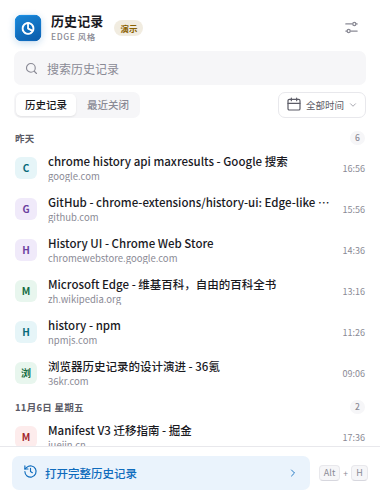
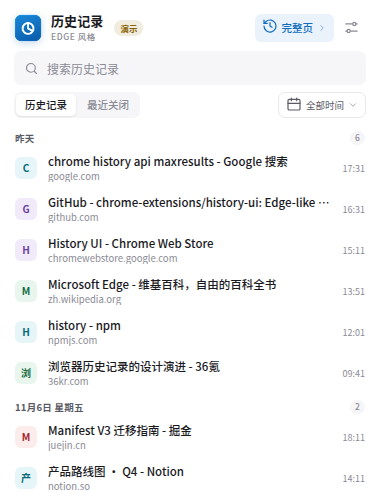
fix: keep the full-history action above the popup list
- move "打开完整历史记录" from the bottom footer to a compact
  "完整页" action in the popup header
- remove the bottom footer so the history list scrolls all the way down
- show the Alt+H / Option+Shift+H shortcut in the action tooltip
- refresh the popup screenshots and README placement notes

diff --git a/popup.css b/popup.css
@@ -220,7 +220,42 @@ html[data-theme="dark"] .p-demo {
 .p-header-actions {
   display: flex;
   align-items: center;
-  gap: 2px;
+  gap: 3px;
+}
+
+.p-open-full {
+  display: inline-flex;
+  align-items: center;
+  height: 28px;
+  gap: 4px;
+  padding: 0 7px;
+  border-radius: 6px;
+  background: var(--accent-soft);
+  color: var(--accent);
+  font-size: 10.5px;
+  font-weight: 550;
+  white-space: nowrap;
+  transition: background 0.13s var(--ease), color 0.13s var(--ease);
+}
+
+.p-open-full:hover {
+  background: var(--accent-soft-2);
+}
+
+.p-open-full > .icon {
+  width: 13px;
+  height: 13px;
+}
+
+.p-open-full-arrow {
+  display: flex;
+  color: var(--accent);
+  opacity: 0.65;
+}
+
+.p-open-full-arrow .icon {
+  width: 10px;
+  height: 10px;
 }
 
 .p-icon-btn {
@@ -674,68 +709,12 @@ html[data-theme="dark"] .p-demo {
   color: var(--danger);
 }
 
-/* ---------------------------------------------------------------- footer */
-
-.p-footer {
-  display: flex;
-  align-items: center;
-  flex: none;
-  gap: 9px;
-  padding: 9px 12px 10px;
-  border-top: 1px solid var(--border);
-  background: var(--surface);
-}
-
-.p-full-link {
-  display: flex;
-  align-items: center;
-  height: 34px;
-  flex: 1;
-  min-width: 0;
-  gap: 7px;
-  padding: 0 11px;
-  border-radius: 7px;
-  background: var(--accent-soft);
-  color: var(--accent);
-  font-size: 11.5px;
-  font-weight: 550;
-  text-align: left;
-}
-
-.p-full-link:hover {
-  background: var(--accent-soft-2);
-}
-
-.p-full-link .icon {
-  width: 15px;
-  height: 15px;
-}
-
-.p-full-arrow {
-  display: flex;
-  margin-left: auto;
-}
-
-.p-full-arrow .icon {
-  width: 12px;
-  height: 12px;
-}
-
-.p-shortcut {
-  display: flex;
-  align-items: center;
-  flex: none;
-  gap: 3px;
-  color: var(--text-3);
-  font-size: 8.5px;
-}
-
 /* ----------------------------------------------------------------- toast */
 
 .p-toast {
   position: absolute;
   right: 14px;
-  bottom: 57px;
+  bottom: 14px;
   left: 14px;
   z-index: 20;
   display: flex;

diff --git a/popup.html b/popup.html
@@ -20,6 +20,11 @@
         <span class="p-demo" id="demoPill" hidden>演示</span>
       </div>
       <div class="p-header-actions">
+        <button class="p-open-full" type="button" id="openFull" aria-label="打开完整历史记录" title="打开完整历史记录">
+          <span data-icon="history"></span>
+          <span>完整页</span>
+          <span class="p-open-full-arrow" data-icon="chevron-right"></span>
+        </button>
         <button class="p-icon-btn" type="button" id="settingsBtn" data-icon="settings" aria-label="设置" title="设置"></button>
       </div>
     </header>
@@ -85,14 +90,6 @@
       </div>
     </div>
 
-    <footer class="p-footer">
-      <button class="p-full-link" type="button" id="openFull">
-        <span data-icon="history"></span>
-        <span>打开完整历史记录</span>
-        <span class="p-full-arrow" data-icon="chevron-right"></span>
-      </button>
-      <span class="p-shortcut" id="shortcutHint"><kbd>Alt</kbd><span>+</span><kbd>H</kbd></span>
-    </footer>
 
     <div class="p-toast" id="toast" hidden></div>
   </div>

diff --git a/popup.js b/popup.js
@@ -133,7 +133,6 @@ function cacheDom() {
     closedCount: document.getElementById('closedCount'),
     closedList: document.getElementById('closedList'),
     openFull: document.getElementById('openFull'),
-    shortcutHint: document.getElementById('shortcutHint'),
     demoPill: document.getElementById('demoPill'),
     toast: document.getElementById('toast')
   };
@@ -1041,9 +1040,11 @@ function showToast(message, type = 'info') {
 function updateShortcutHint() {
   const mac = /Mac|iPhone|iPad|iPod/.test(navigator.platform || '')
     || /Macintosh/i.test(navigator.userAgent);
-  if (!mac) return;
-  el.shortcutHint.innerHTML = '<kbd>⌥</kbd><span>+</span><kbd>⇧</kbd><kbd>H</kbd>';
-  el.shortcutHint.title = 'Option + Shift + H';
+  const shortcut = mac ? 'Option + Shift + H' : 'Alt + H';
+  if (el.openFull) {
+    el.openFull.title = `打开完整历史记录（${shortcut}）`;
+    el.openFull.setAttribute('aria-label', el.openFull.title);
+  }
 }
 
 function friendlyError(error) {
